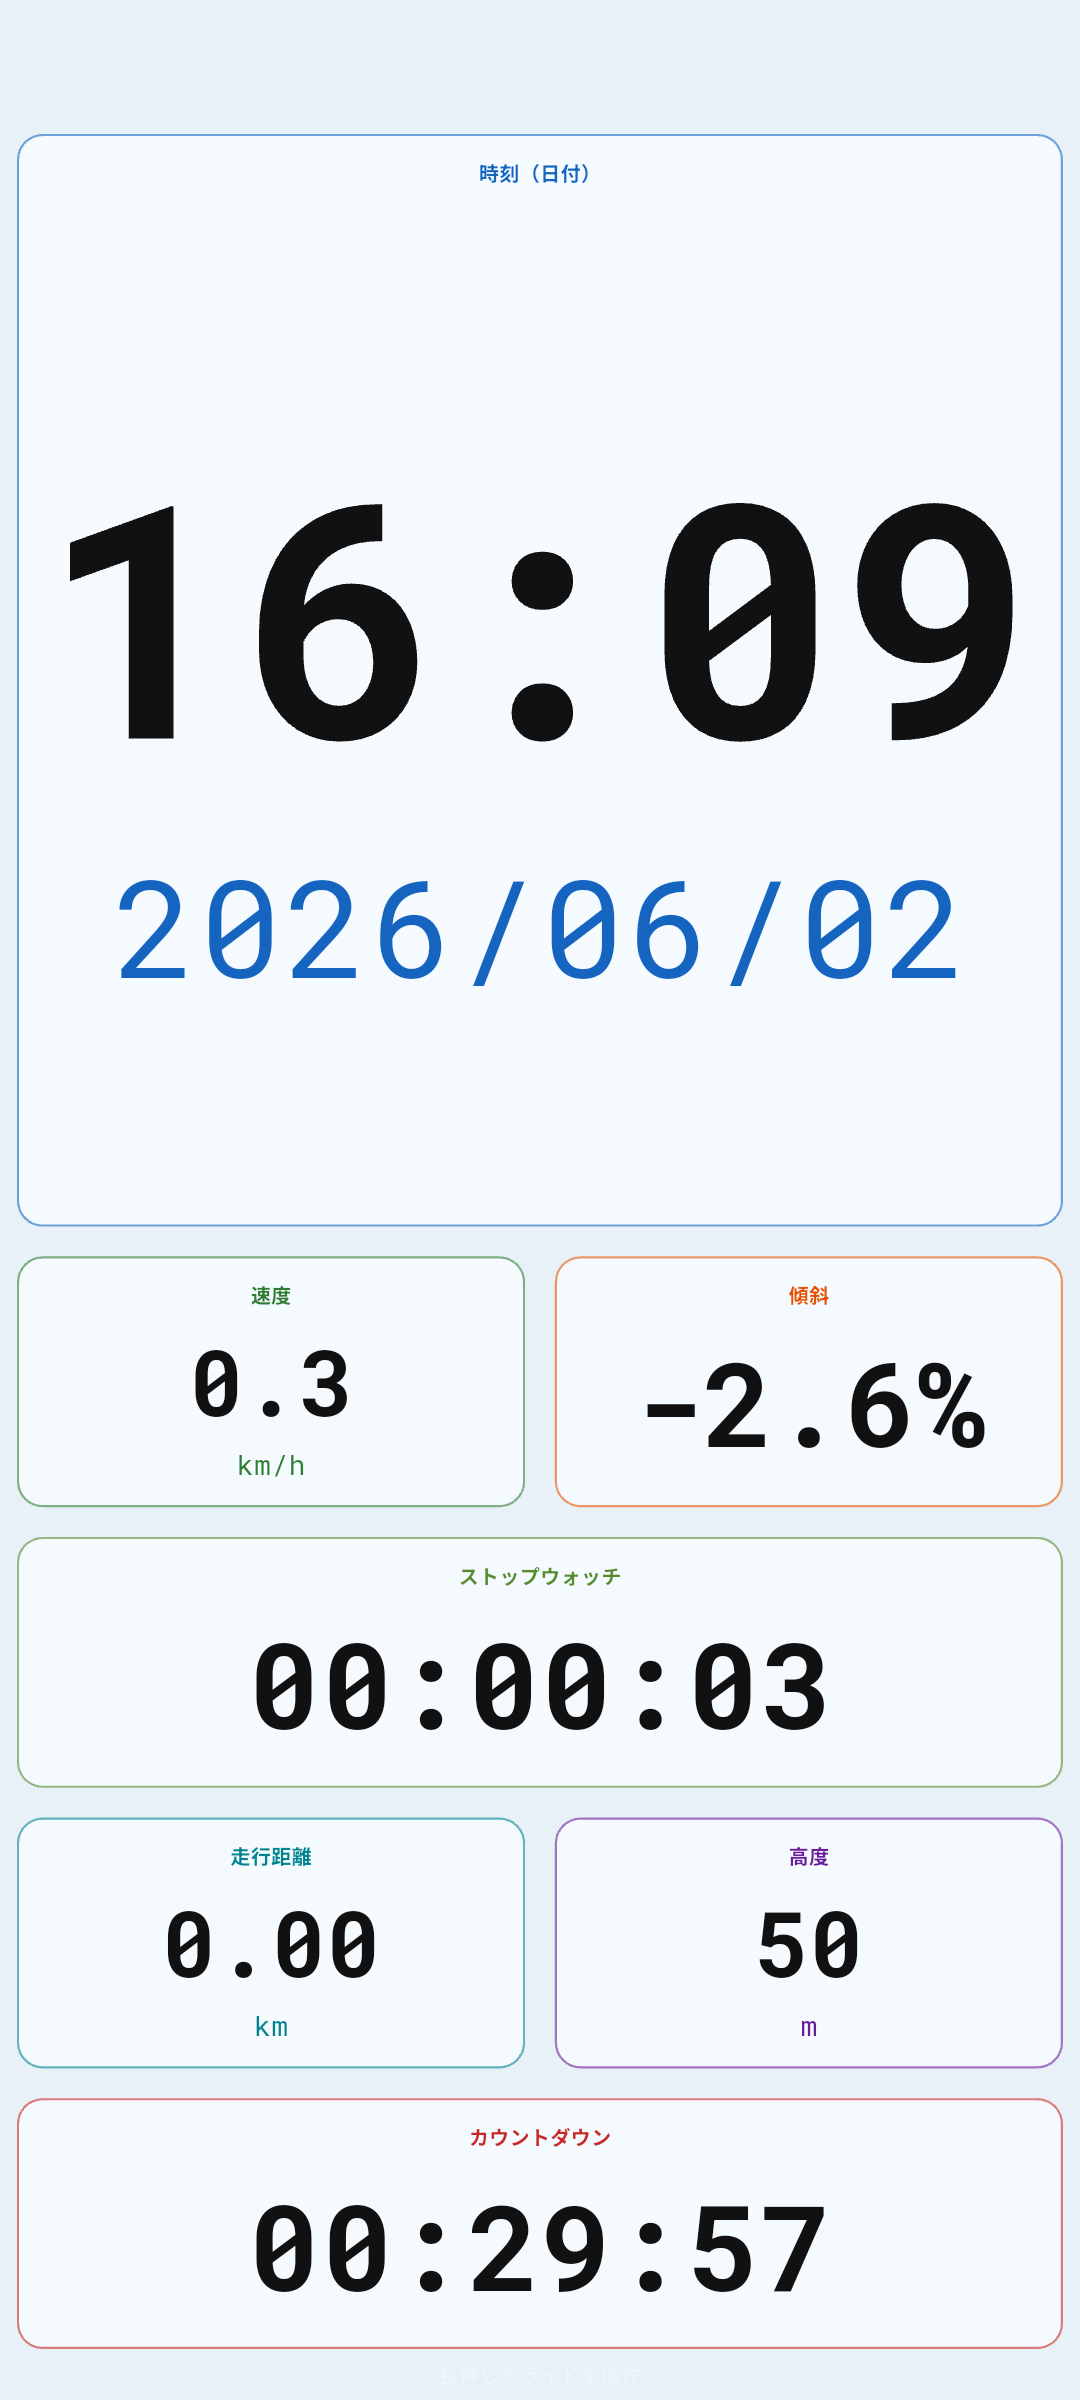
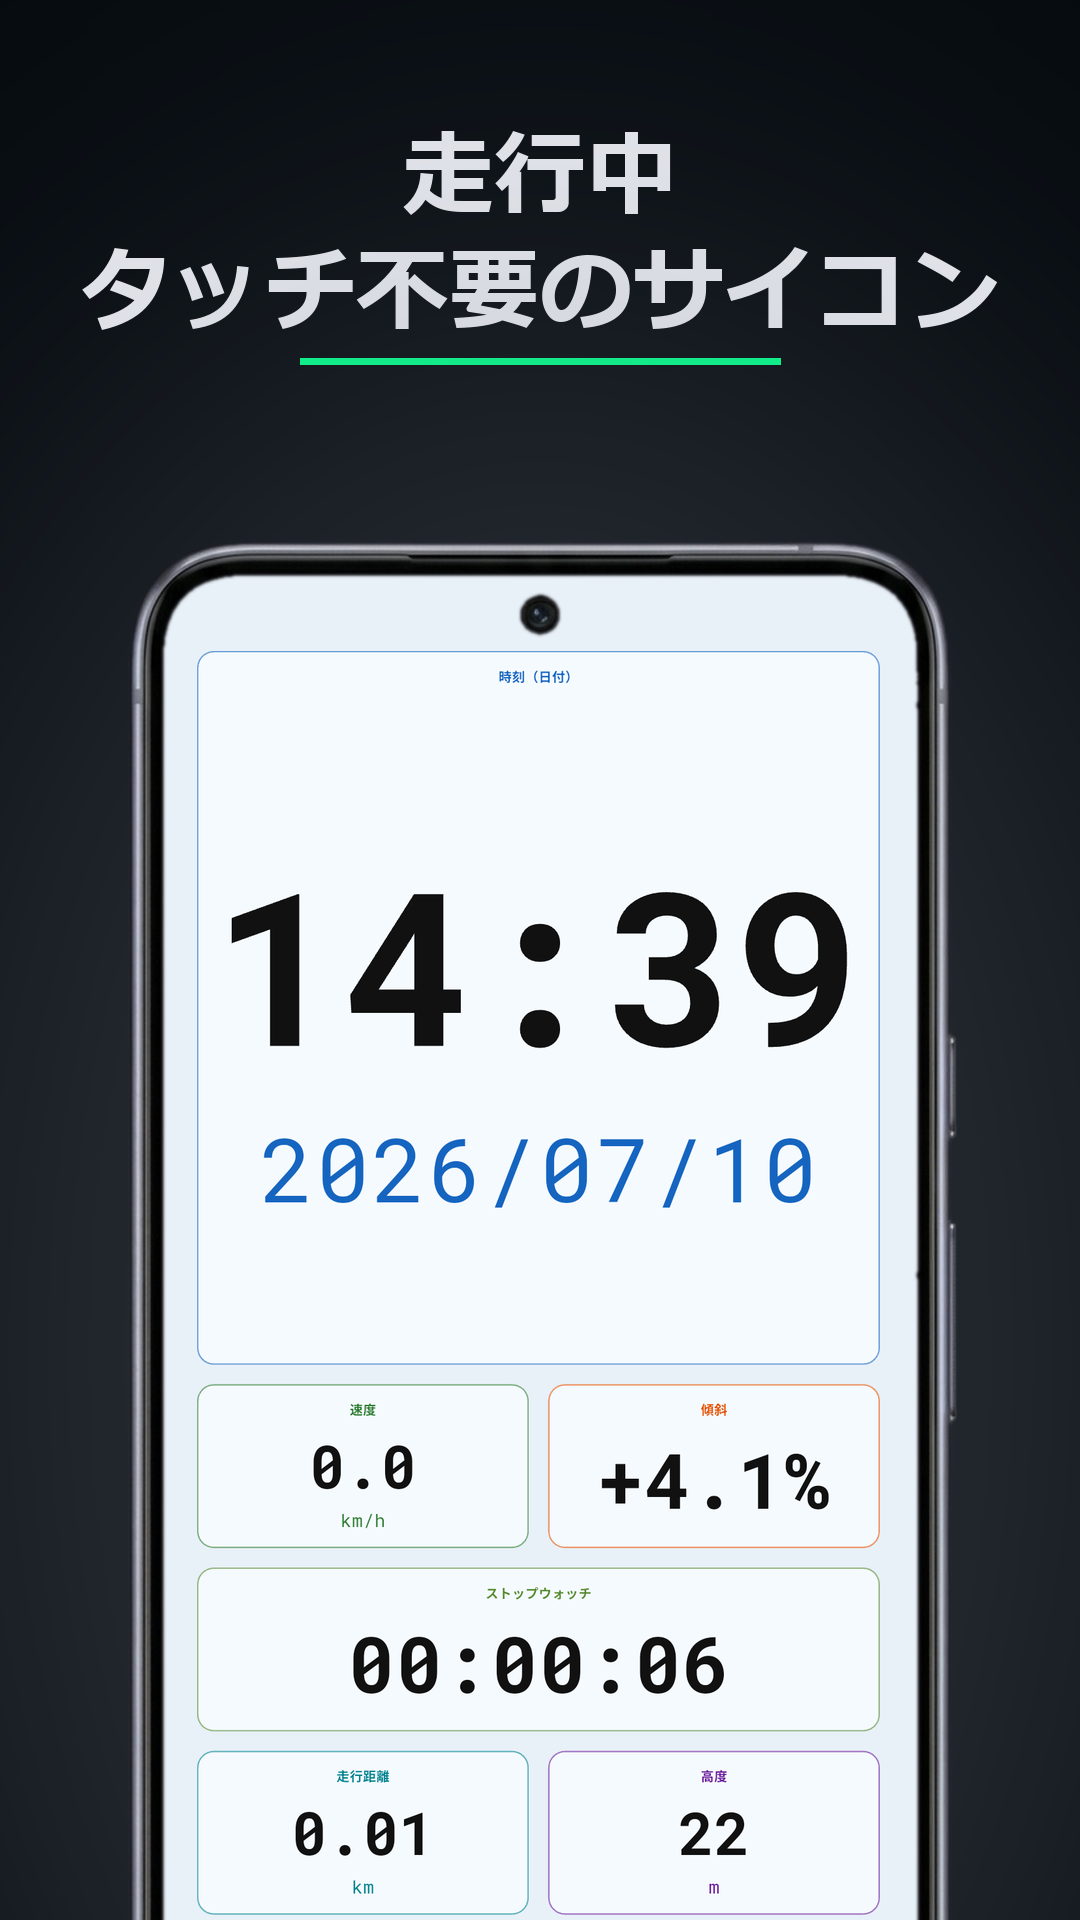
feat: Chrono Ride v1.2.1 アップデート情報とスクリーンショットを更新
走行距離の誤記録軽減・起動時広告廃止・長押し操作改善のv1.2.1リリースに合わせ、
紹介ページのchangelogと差替え後のスクリーンショット5枚を反映。

diff --git a/_apps/chrono-ride.md b/_apps/chrono-ride.md
@@ -5,6 +5,12 @@ status: released
 release_date: "2026-06-02"
 release_version: "v1.0.0"
 updates:
+  - date: "2026-07-10"
+    version: "v1.2.1"
+    items:
+      - "走行距離が実際より多く記録されやすい問題を軽減"
+      - "アプリ起動時の広告表示を廃止"
+      - "ライド中の長押し操作を改善 — 長押しで即座に一時停止するように変更"
   - date: "2026-07-07"
     version: "v1.2.0"
     items:
@@ -31,6 +37,8 @@ screenshots:
   - /assets/images/chrono-ride/ss1.png
   - /assets/images/chrono-ride/ss2.png
   - /assets/images/chrono-ride/ss3.png
+  - /assets/images/chrono-ride/ss4.png
+  - /assets/images/chrono-ride/ss5.png
 cta_label: Google Playで見る
 cta_url: https://play.google.com/store/apps/details?id=com.chronoride.chrono_ride
 privacy_url: https://narukami-akut.github.io/chrono-ride-site/privacy_policy.html